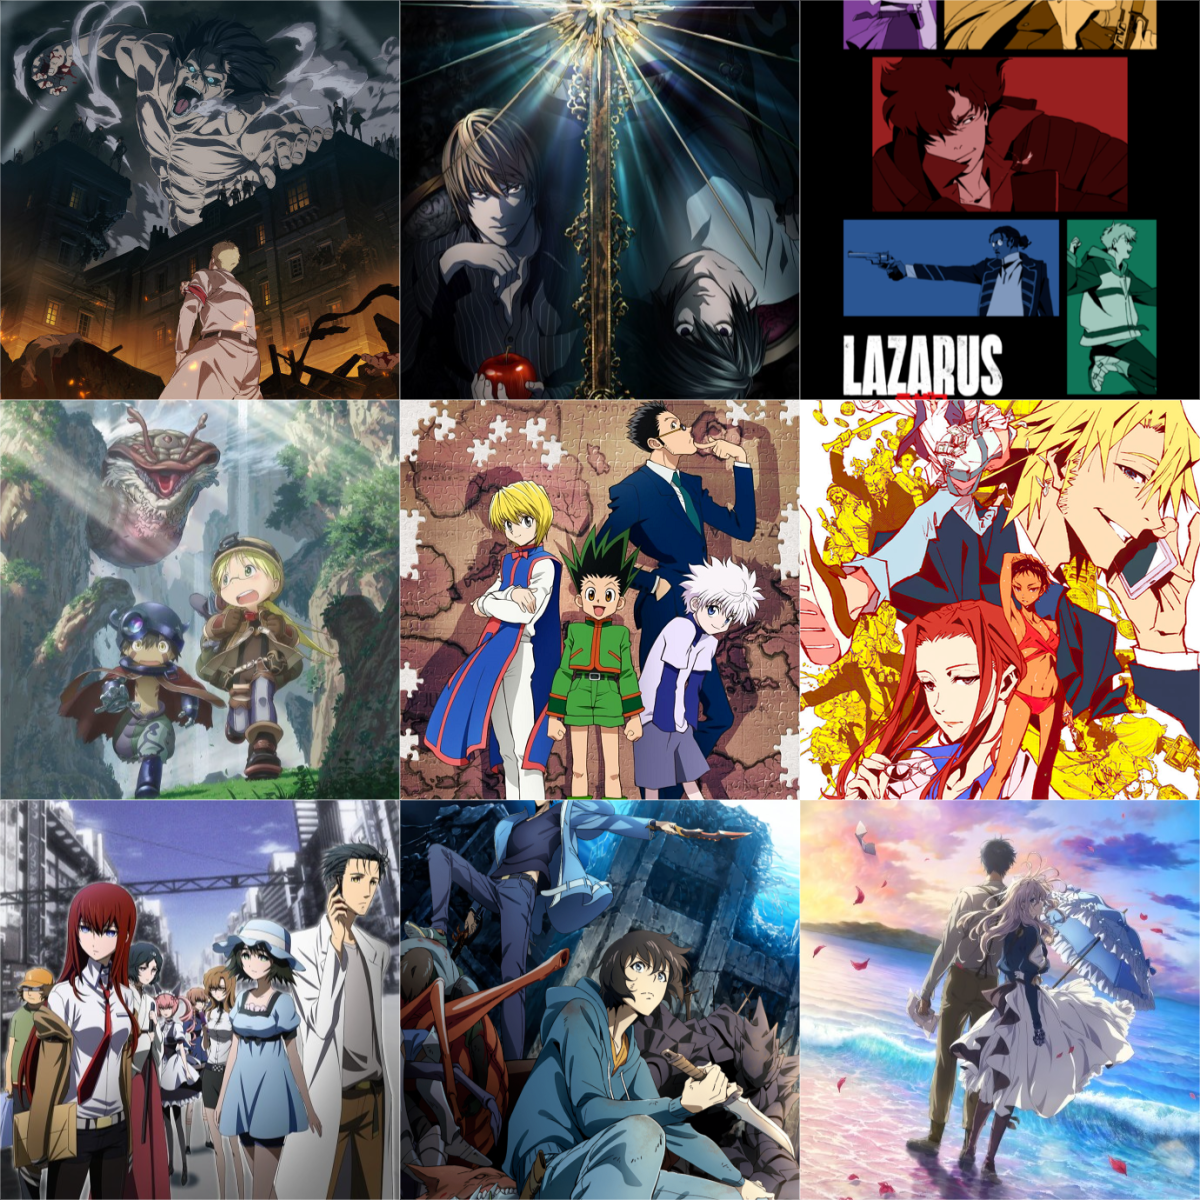
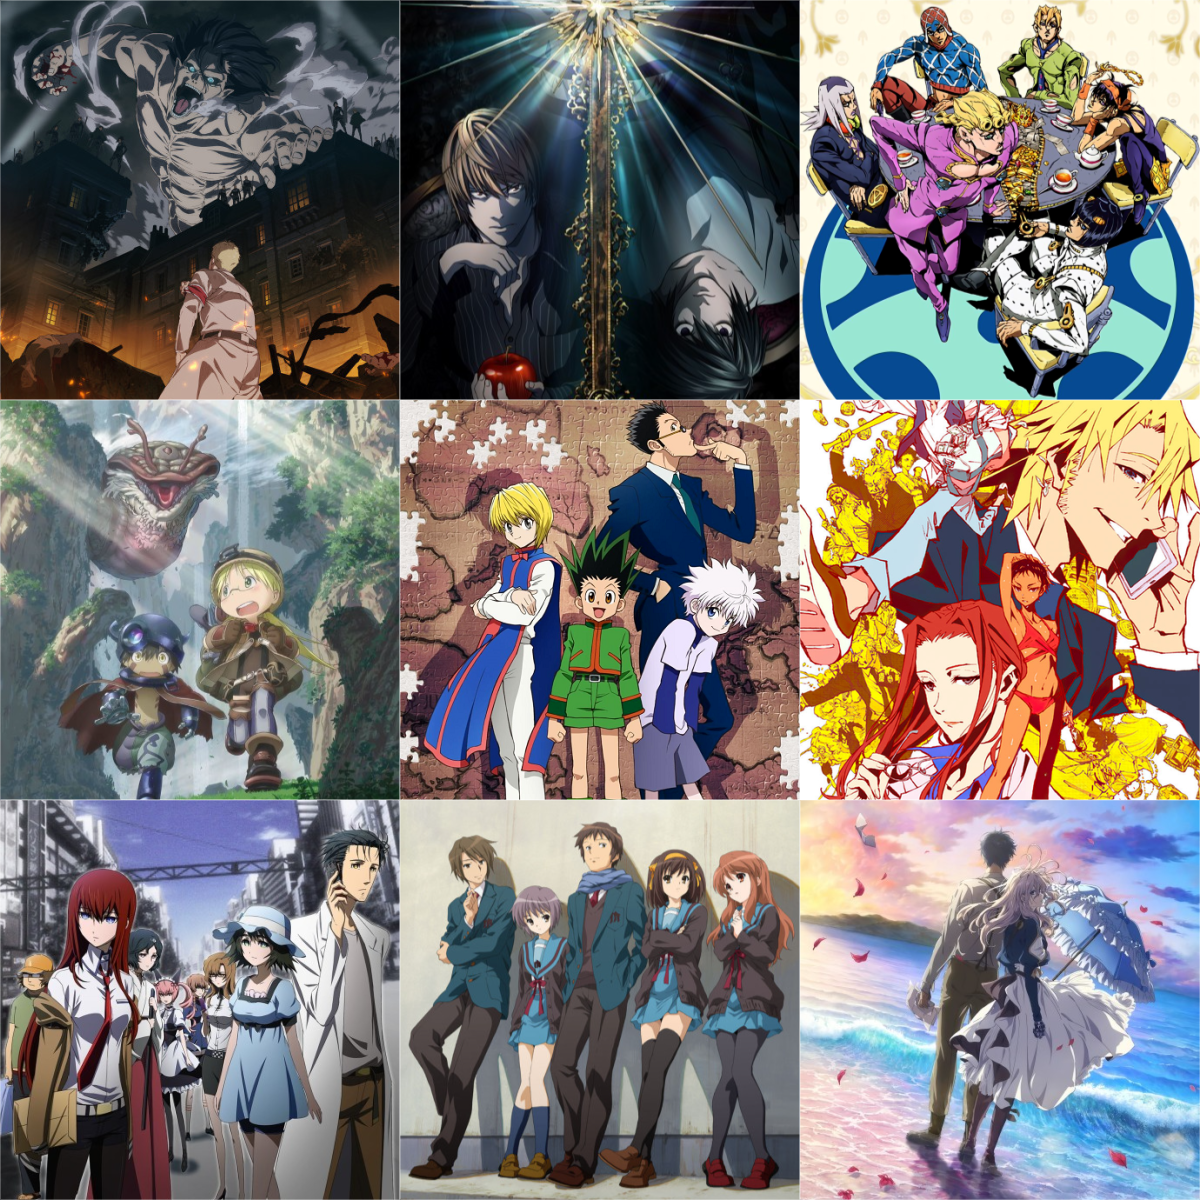
changed details in favorites section and 3x3

diff --git a/index.html b/index.html
@@ -105,12 +105,13 @@
                             <ul>
                                 <li>Heavenly Delusions</li>
                             </ul>
-                            <p><strong>Most Entertaining Watches:</strong></p>
+                            <p><strong>Unexpected Favorites:</strong></p>
                             <ul>
                                 <li>JoJo's Bizarre Adventure</li>
                                 <li>Ranking of Kings</li>
                                 <li>Summertime Render</li>
-                                <li>Cyberpunk Edgerunners</li>
+                                <li>Migi & Dali</li>
+                                <li>Odd Taxi</li>
                                 <li>Eminence in Shadow</li>
                             </ul>
                         </div>
